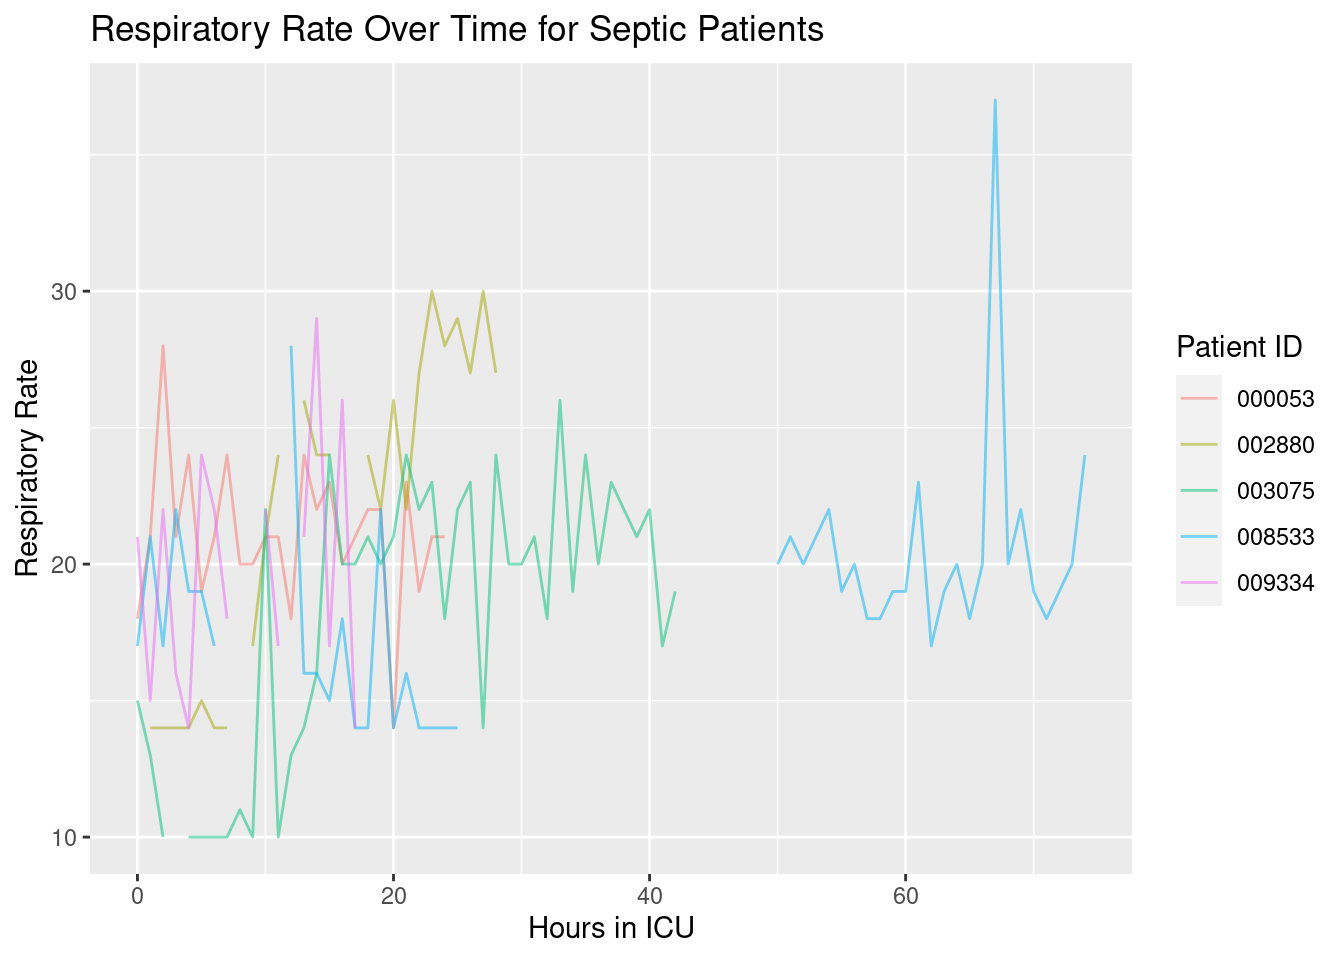
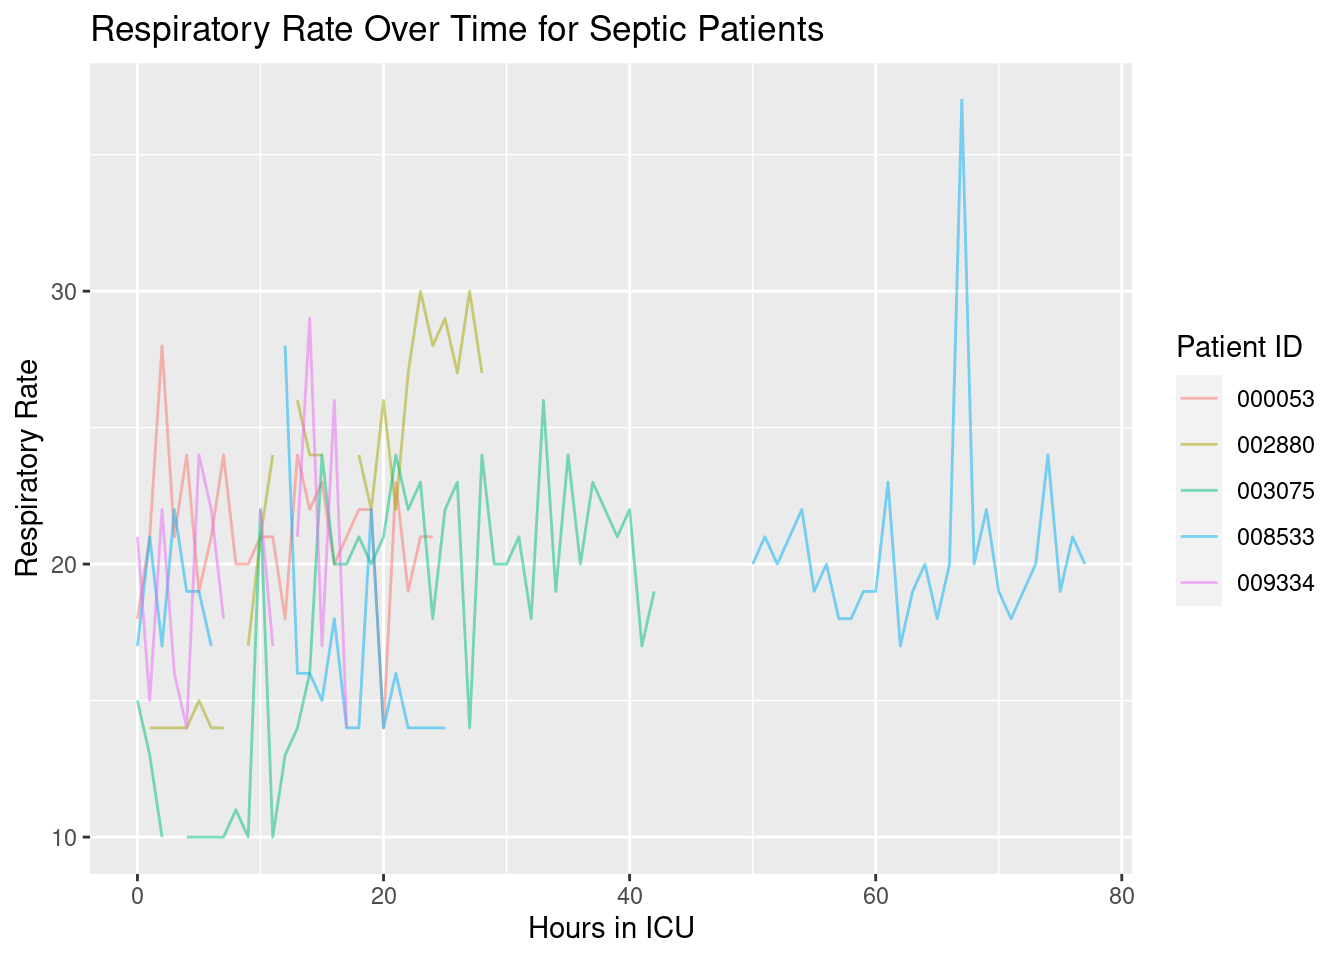
Updated report

diff --git a/icu-status-report.html b/icu-status-report.html
@@ -67,7 +67,7 @@ ul.task-list li input[type="checkbox"] {
 
 </header>
 
-<p>This report was produced at 2023-04-09 17:19:58.</p>
+<p>This report was produced at 2023-04-09 18:25:11.</p>
 <div class="cell">
 <div class="cell-output-display">
 <table class="table table-sm table-striped">
@@ -101,9 +101,9 @@ ul.task-list li input[type="checkbox"] {
 </tr>
 <tr class="even">
 <td style="text-align: left;">008533</td>
-<td style="text-align: right;">77</td>
+<td style="text-align: right;">80</td>
 <td style="text-align: right;">NA</td>
-<td style="text-align: right;">24</td>
+<td style="text-align: right;">20</td>
 </tr>
 <tr class="odd">
 <td style="text-align: left;">009334</td>
@@ -394,8 +394,8 @@ ul.task-list li input[type="checkbox"] {
 <tr class="even">
 <td style="text-align: left;">008533</td>
 <td style="text-align: right;">NA</td>
-<td style="text-align: right;">-11</td>
-<td style="text-align: right;">4</td>
+<td style="text-align: right;">0</td>
+<td style="text-align: right;">-1</td>
 </tr>
 <tr class="odd">
 <td style="text-align: left;">008752</td>
@@ -412,8 +412,8 @@ ul.task-list li input[type="checkbox"] {
 <tr class="odd">
 <td style="text-align: left;">008867</td>
 <td style="text-align: right;">NA</td>
-<td style="text-align: right;">-3</td>
-<td style="text-align: right;">0</td>
+<td style="text-align: right;">13</td>
+<td style="text-align: right;">-1</td>
 </tr>
 <tr class="even">
 <td style="text-align: left;">009005</td>
